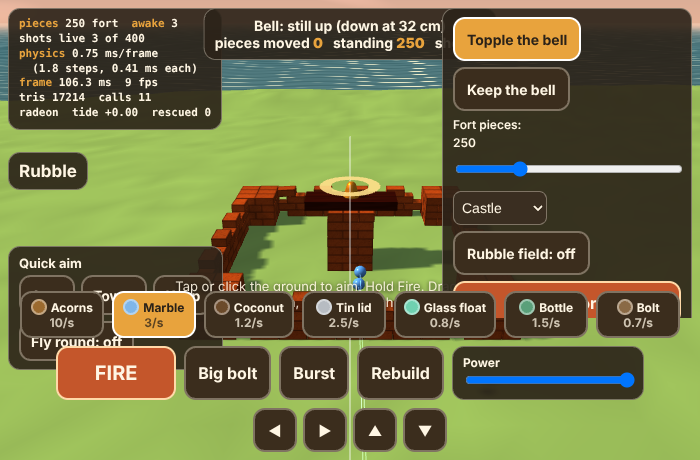
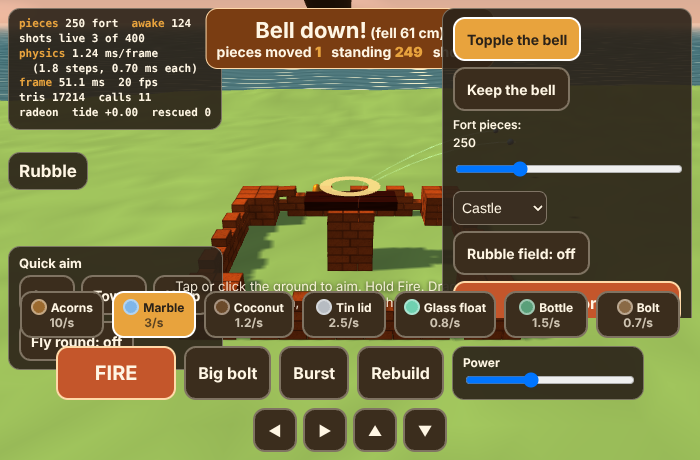
Rubble: B3 aim line (predicted first 0.67 s) and power meter, switchable
Replay codes unchanged by B3.

Claude-Session: https://claude.ai/code/session_0171oc5wTsPoimaja7RRfUcs

diff --git a/games/living-islands/rubble/index.html b/games/living-islands/rubble/index.html
@@ -75,6 +75,8 @@ body.keepmode #ammo .am .tag{display:block}
   <div class="card"><div class="row"><button class="btn" id="replay">Replay slow</button><button class="btn" id="bench">Bench...</button></div>
     <div style="margin-top:6px;opacity:.85">Slow motion is only the replay: it rebuilds the same scene and plays your shots again at one quarter speed.</div></div>
   <div class="card"><div class="row"><button class="btn" id="boltHead">Bolt head: pointed</button><button class="btn on" id="trails">Trails: on</button></div><div style="margin-top:4px;opacity:.85;font-size:12px">The Bolt flies point first. The head shape is only for looks.</div></div>
+  <div class="card"><div id="pbox"><div style="font-weight:700;font-size:12px">Power</div><div id="pbar" style="height:12px;border:1px solid var(--line);border-radius:6px;overflow:hidden;background:#2a2016"><i style="display:block;height:100%;width:100%;background:linear-gradient(90deg,#8fc46a,#e8a33d,#d9552b)"></i></div></div>
+    <div class="row" style="margin-top:6px"><button class="btn on" id="aimHelp">Aim line: on</button></div></div>
   <div class="card" id="aimbox"></div>
 </div>
 <div id="ammo"></div>
@@ -327,7 +329,7 @@ function box(w, h, d, m, x, y, z, p) { var o = new THREE.Mesh(new THREE.BoxGeome
 box(1.1, 0.12, 1.5, dark, 0, 0.06, 0); box(0.1, 0.8, 0.1, wood, -0.45, 0.5, 0); box(0.1, 0.8, 0.1, wood, 0.45, 0.5, 0); box(1.0, 0.08, 0.08, wood, 0, 0.88, 0);
 armPivot.position.set(0, 0.88, 0); launcher.add(armPivot); box(0.1, 0.1, 1.6, wood, 0, 0, -0.55, armPivot); var cup = box(0.3, 0.1, 0.3, dark, 0, 0.06, -1.35, armPivot);
 var L0 = site.layout.launcher; launcher.position.set(L0.x, site.H(L0.x, L0.z), L0.z); scene.add(launcher);
-var arcLine = new THREE.Line(new THREE.BufferGeometry().setFromPoints(new Array(40).fill(0).map(function () { return new THREE.Vector3(); })), new THREE.LineBasicMaterial({ color: 0xffffff, transparent: true, opacity: 0.8 })); arcLine.frustumCulled = false; scene.add(arcLine);
+var arcLine = new THREE.Line(new THREE.BufferGeometry().setFromPoints(new Array(40).fill(0).map(function () { return new THREE.Vector3(); })), new THREE.LineBasicMaterial({ color: 0xffffff, transparent: true, opacity: 0.45 })); arcLine.frustumCulled = false; scene.add(arcLine);
 var ring = new THREE.Mesh(new THREE.RingGeometry(0.25, 0.4, 24).rotateX(-Math.PI / 2), new THREE.MeshBasicMaterial({ color: 0xffe08a, transparent: true, opacity: 0.9, depthTest: false })); ring.renderOrder = 5; scene.add(ring);
 
 /* ---------- session ---------- */
@@ -434,13 +436,16 @@ function aimUpdate() {
   if (!ses) return;
   var K = KINDS[ammoKind], m = ses.muzzle(), sp = K.speed * (0.45 + 0.55 * power);
   if (aim.target) { var a = SIM.aimAt(m, aim.target, sp, K.fly); if (a) { aim.yaw = a.yaw; aim.elev = a.elev; aim.reach = true; } else { aim.yaw = Math.atan2(aim.target.x - m.x, -(aim.target.z - m.z)); aim.elev = 0.7; aim.reach = false; } }
-  var pts = [], i, vx = Math.sin(aim.yaw) * Math.cos(aim.elev) * sp, vy = Math.sin(aim.elev) * sp, vz = -Math.cos(aim.yaw) * Math.cos(aim.elev) * sp, t, step = 0.045;
-  for (i = 0; i < 40; i++) { t = i * step; pts.push(new THREE.Vector3(m.x + vx * t, m.y + vy * t - 0.5 * 9.81 * t * t, m.z + vz * t)); }
-  arcLine.geometry.setFromPoints(pts);
+  /* the aim line: the first 0.67 s of the flight as the physics will fly it (sim_terrain's predict: gravity, drag, lift; the shot's small random spread is not drawn) */
+  var pts = [new THREE.Vector3(m.x, m.y, m.z)], i, pr = SIM.predict(ammoKind, m, SIM.launchV(ammoKind, aim.yaw, aim.elev, power), 40);
+  for (i = 0; i < 39; i++) pts.push(new THREE.Vector3(pr[i].x, pr[i].y, pr[i].z));
+  arcLine.geometry.setFromPoints(pts); arcLine.visible = aimHelp;
+  $('pbar').firstChild.style.width = Math.round(power * 100) + '%'; $('pbox').style.display = aimHelp ? 'block' : 'none';
   armPivot.rotation.x = aim.elev + 0.6; launcher.rotation.y = -aim.yaw;
   if (aim.target) { ring.position.set(aim.target.x, aim.target.y + 0.05, aim.target.z); ring.visible = true; } else ring.visible = false;
   $('aimbox').textContent = 'Aim  yaw ' + (aim.yaw * 57.296).toFixed(1) + ' deg   up ' + (aim.elev * 57.296).toFixed(1) + ' deg\nPower ' + Math.round(power * 100) + '%   speed ' + sp.toFixed(1) + ' m/s' + (aim.target && aim.reach === false ? '\nTarget out of reach: aiming high' : '') + '\nMass ' + (ammoMass(ammoKind)).toFixed(2) + ' kg   ' + K.note;
 }
+var aimHelp = true;
 var massCache = {};
 function ammoMass(k) { if (massCache[k]) return massCache[k]; var K = KINDS[k]; massCache[k] = K.dens * SIM.volOf(K); return massCache[k]; }
 /* quick aims: Gate, Tower and Keep turn the launcher to the gatehouse bell, a front corner tower bell (it alternates left and right) and the keep bell; on the other shapes the nearest equivalent */
@@ -537,6 +542,7 @@ $('qGate').addEventListener('click', function () { quickAim('gate'); }); $('qTow
 $('fly').addEventListener('click', function () { flyRound = !flyRound; this.textContent = 'Fly round: ' + (flyRound ? 'on' : 'off'); this.classList.toggle('on', flyRound); });
 $('boltHead').addEventListener('click', function () { boltPointed = !boltPointed; this.textContent = 'Bolt head: ' + (boltPointed ? 'pointed' : 'blunt'); var old = IM.rod.geometry; IM.rod.geometry = boltGeo(KINDS.rod, boltPointed); old.dispose(); });
 $('trails').addEventListener('click', function () { trailsOn = !trailsOn; this.textContent = 'Trails: ' + (trailsOn ? 'on' : 'off'); this.classList.toggle('on', trailsOn); });
+$('aimHelp').addEventListener('click', function () { aimHelp = !aimHelp; this.textContent = 'Aim line: ' + (aimHelp ? 'on' : 'off'); this.classList.toggle('on', aimHelp); aimUpdate(); });
 $('look').addEventListener('click', function () { applyLook(!pretty); this.textContent = 'Look: ' + (pretty ? 'Pretty' : 'Plain'); this.classList.toggle('on', pretty); });
 
 /* ---------- slow-motion replay (deliberate only) ---------- */
@@ -692,7 +698,7 @@ $('shots').value = shotsMax; setShotsLabel(); document.body.classList.toggle('ke
 await build(start); setPiecesLabel();
 applyLook(pretty); $('look').textContent = 'Look: ' + (pretty ? 'Pretty' : 'Plain'); $('look').classList.toggle('on', pretty);
 recolor(tideNow, groundMode); placeCam(); requestAnimationFrame(frame);
-window.__rubble = { orb: orb, cam: cam, get ses() { return ses; }, site: site, THREE: THREE, P: P, build: build, fire: function (k, n) { ammoKind = k; for (var i = 0; i < (n || 1); i++) fireNow(); }, aim: aim, aimUpdate: aimUpdate, setAmmo: function (k) { ammoKind = k; syncAmmo(); aimUpdate(); }, perfText: perfText, renderer: renderer, applyLook: applyLook, look: function () { return pretty; }, benchRun: benchRun, tier: function () { return tier; }, quickAim: quickAim, fly: function () { return flyRound; }, trails: function () { return { on: trailsOn, visible: trailLines.visible, drawn: trailGeo.drawRange.count }; }, keep: function () { return { on: keepMode, shotsMax: shotsMax, over: roundOver, best: bestGet() }; }, setMode: setMode, done: function () { $('keepDone').click(); } };
+window.__rubble = { orb: orb, cam: cam, get ses() { return ses; }, site: site, THREE: THREE, P: P, build: build, fire: function (k, n) { ammoKind = k; for (var i = 0; i < (n || 1); i++) fireNow(); }, aim: aim, aimUpdate: aimUpdate, setAmmo: function (k) { ammoKind = k; syncAmmo(); aimUpdate(); }, perfText: perfText, renderer: renderer, applyLook: applyLook, look: function () { return pretty; }, benchRun: benchRun, tier: function () { return tier; }, quickAim: quickAim, fly: function () { return flyRound; }, aimLine: function () { return { on: aimHelp, visible: arcLine.visible, pts: arcLine.geometry.attributes.position.count, meter: document.getElementById('pbox').style.display, fill: document.getElementById('pbar').firstChild.style.width }; }, trails: function () { return { on: trailsOn, visible: trailLines.visible, drawn: trailGeo.drawRange.count }; }, keep: function () { return { on: keepMode, shotsMax: shotsMax, over: roundOver, best: bestGet() }; }, setMode: setMode, done: function () { $('keepDone').click(); } };
 })();
 </script>
 </body></html>

diff --git a/games/living-islands/rubble/sim_terrain.js b/games/living-islands/rubble/sim_terrain.js
@@ -475,6 +475,19 @@
     }
     return r;
   }
+  /* where a shot will be after each of the next n steps, from its start p and velocity v (the aim line, B3): the physics' own stepping, gravity then position (with Rapier's linear damping of 0.02),
+     then the lift and drag of the ammo's fly settings. Spread (the small random part of every shot) is not in it. Stabilisation turns the body and does not move its centre, so it is not in it either. */
+  function predict(kind, p, v, n) {
+    var F = KINDS[kind].fly || {}, x = p.x, y = p.y, z = p.z, vx = v.x, vy = v.y, vz = v.z, out = [], i, k, sp, damp = 1 / (1 + 0.02 * DT);
+    for (i = 0; i < n; i++) {
+      vy += GRAV * DT; vx *= damp; vy *= damp; vz *= damp; x += vx * DT; y += vy * DT; z += vz * DT; out.push({ x: x, y: y, z: z });
+      if (F.lift) vy += F.lift * (vx * vx + vz * vz) * DT;
+      if (F.drag) { sp = Math.sqrt(vx * vx + vy * vy + vz * vz); k = 1 - F.drag * sp * DT; vx *= k; vy *= k; vz *= k; }
+    }
+    return out;
+  }
+  /* the launch velocity of a shot from the aim (no spread): what the aim line is drawn from */
+  function launchV(kind, yaw, elev, power) { var K = KINDS[kind], sp = K.speed * (0.45 + 0.55 * TR.clamp(power === undefined ? 1 : power, 0, 1)), ce = Math.cos(elev); return { x: Math.sin(yaw) * ce * sp, y: Math.sin(elev) * sp, z: -Math.cos(yaw) * ce * sp }; }
   /* height of a shot (from the muzzle, no wind) when it has gone dist metres along the ground: the physics' own order, gravity into the velocity, the position, then the drag */
   function trajY(speed, elev, drag, dist, lift) {
     var vx = speed * Math.cos(elev), vy = speed * Math.sin(elev), x = 0, y = 0, i, px, py, k;
@@ -507,6 +520,6 @@
     for (k = 0; k < 200; k++) s.step();
     h = s.sim.hash(); s.sim.dispose(); return h;
   }
-  var API = { ammoStrength: ammoStrength, STRONG_J: STRONG_J, KEEP_RULES: KEEP_RULES, keepStars: keepStars, grandCode: grandCode, fortCode: fortCode, buildFort: buildFort, settleUnit: settleUnit, BELL_DROP: BELL_DROP, MOVED: MOVED, rubbleCount: rubbleCount, FORT: FORT, determinismCode: determinismCode, KINDS: KINDS, AMMO: AMMO, DT: DT, GRAV: GRAV, RHOW: RHOW, makeSim: makeSim, buildScene: buildScene, makeSession: makeSession, aimAt: aimAt, trajY: trajY, rng: rng, qFromTo: qFromTo, qRandom: qRandom, qYaw: qYaw, volOf: volOf, nowMs: nowMs };
+  var API = { ammoStrength: ammoStrength, STRONG_J: STRONG_J, KEEP_RULES: KEEP_RULES, keepStars: keepStars, grandCode: grandCode, fortCode: fortCode, buildFort: buildFort, settleUnit: settleUnit, BELL_DROP: BELL_DROP, MOVED: MOVED, rubbleCount: rubbleCount, FORT: FORT, determinismCode: determinismCode, KINDS: KINDS, AMMO: AMMO, DT: DT, GRAV: GRAV, RHOW: RHOW, makeSim: makeSim, buildScene: buildScene, makeSession: makeSession, aimAt: aimAt, trajY: trajY, predict: predict, launchV: launchV, rng: rng, qFromTo: qFromTo, qRandom: qRandom, qYaw: qYaw, volOf: volOf, nowMs: nowMs };
   if (typeof module !== 'undefined' && module.exports) module.exports = API; else root.RSim = API;
 })(typeof window !== 'undefined' ? window : globalThis);

diff --git a/games/living-islands/rubble/test_flight.js b/games/living-islands/rubble/test_flight.js
@@ -114,6 +114,25 @@ async function main() {
     var h1 = run(), h2 = run(); check('B2: all seven ammo kinds fly deterministically (the same volley gives the same hash twice: ' + h1 + ')', h1 === h2, h1 + ' / ' + h2);
   })();
 
+  /* ---------- B3: the aim line: the predicted first half second matches the real flight within 5 cm ---------- */
+  (function () {
+    var ses = SIM.makeSession(R, lee, { pieces: 40, seed: 2, fort: 'tower', ammoCap: 400 }), mu = ses.muzzle(), worst = 0, worstKind = '', rows = {}, n = 0, i, k, kind;
+    SIM.AMMO.forEach(function (kind) {
+      var wk = 0;
+      [[0.9, 0.25, 1], [-0.9, 0.5, 0.6], [1.2, 0.3, 0.85], [-1.2, 0.8, 0.3]].forEach(function (c) {
+        var rec = ses.fire(kind, c[0], c[1], c[2]), ev = ses.events[ses.events.length - 1], pred = SIM.predict(kind, { x: ev.p[0], y: ev.p[1], z: ev.p[2] }, { x: ev.v[0], y: ev.v[1], z: ev.v[2] }, 30), st;
+        for (st = 0; st < 30; st++) { ses.step(); var t = rec.body.translation(), d = Math.sqrt(Math.pow(t.x - pred[st].x, 2) + Math.pow(t.y - pred[st].y, 2) + Math.pow(t.z - pred[st].z, 2)); if (d > wk) wk = d; }
+        ses.sim.remove(rec); n++;
+      });
+      rows[kind] = +(wk * 100).toFixed(2); if (wk > worst) { worst = wk; worstKind = kind; }
+    });
+    results.numbers.aimLineCm = rows;
+    check('B3: for all seven ammo kinds at four aims and powers, the predicted path matches the real first 0.5 s (30 steps) within 5 cm (worst ' + (worst * 100).toFixed(2) + ' cm, ' + worstKind + '): ' + JSON.stringify(rows), worst <= 0.05 && n === 28, '');
+    var v = SIM.launchV('marble', 0.2, 0.3, 0.5), sp = Math.sqrt(v.x * v.x + v.y * v.y + v.z * v.z);
+    check('B3: the aim line starts from the same velocity as a shot (marble at half power: ' + sp.toFixed(2) + ' m/s)', Math.abs(sp - 24 * (0.45 + 0.275)) < 1e-9, '');
+    ses.sim.dispose();
+  })();
+
   fs.writeFileSync(path.join(__dirname, 'test_flight_results.json'), JSON.stringify(results, null, 1));
   console.log('\n' + (fails ? fails + ' FAILED' : 'ALL PASSED') + ' (' + results.checks.length + ' checks)'); process.exit(fails ? 1 : 0);
 }

diff --git a/games/living-islands/rubble/test_page_smoke.js b/games/living-islands/rubble/test_page_smoke.js
@@ -87,6 +87,12 @@ async function main() {
     check('trails: a shot in the air draws a streak in the Pretty look (' + r0.trailOn.drawn + ' vertices), it is one extra draw call and no triangles (' + r0.off.calls + ' -> ' + r0.flying.calls + ' calls, ' + r0.off.tris + ' -> ' + r0.flying.tris + ' triangles)', r0.trailOn.on && r0.trailOn.visible && r0.trailOn.drawn > 0 && r0.flying.calls - r0.off.calls <= 1, JSON.stringify(r0));
     check('trails switch off with the button and are hidden in the Plain look', !r0.trailOff.visible && !r0.plain.visible, JSON.stringify([r0.trailOff, r0.plain]));
     check('the Big rod is now the Bolt (label) and the head button swaps pointed and blunt (' + r0.head + ')', /Bolt/.test(r0.names) && /blunt/.test(r0.head), r0.names);
+    var am = await page.evaluate(async function () {
+      var r = window.__rubble, wait = function (ms) { return new Promise(function (x) { setTimeout(x, ms); }); }, out = {}, p = document.getElementById('power');
+      p.value = 50; p.dispatchEvent(new Event('input')); await wait(100); out.on = r.aimLine();
+      document.getElementById('aimHelp').click(); await wait(100); out.off = r.aimLine(); document.getElementById('aimHelp').click(); await wait(100); out.back = r.aimLine(); return out;
+    });
+    check('B3: the faint aim line (40 points, the first 0.67 s) and the power meter (50 percent) are shown, switch off with the button and come back', am.on.visible && am.on.pts === 40 && am.on.fill === '50%' && am.on.meter === 'block' && !am.off.visible && am.off.meter === 'none' && am.back.visible, JSON.stringify(am));
     await page.screenshot({ path: path.join(shots, 'rubble-23-flight-trails.png') });
   }
   if (process.argv.indexOf('--flight-only') > 0) { await flightSection(); check('zero console errors and zero page errors (Flight section)', errs.length === 0, errs.slice(0, 5).join(' | ')); await browser.close(); server.close(); console.log('\n' + (fails ? fails + ' FAILED' : 'ALL PASSED') + ' (' + results.length + ' checks)'); process.exit(fails ? 1 : 0); }
